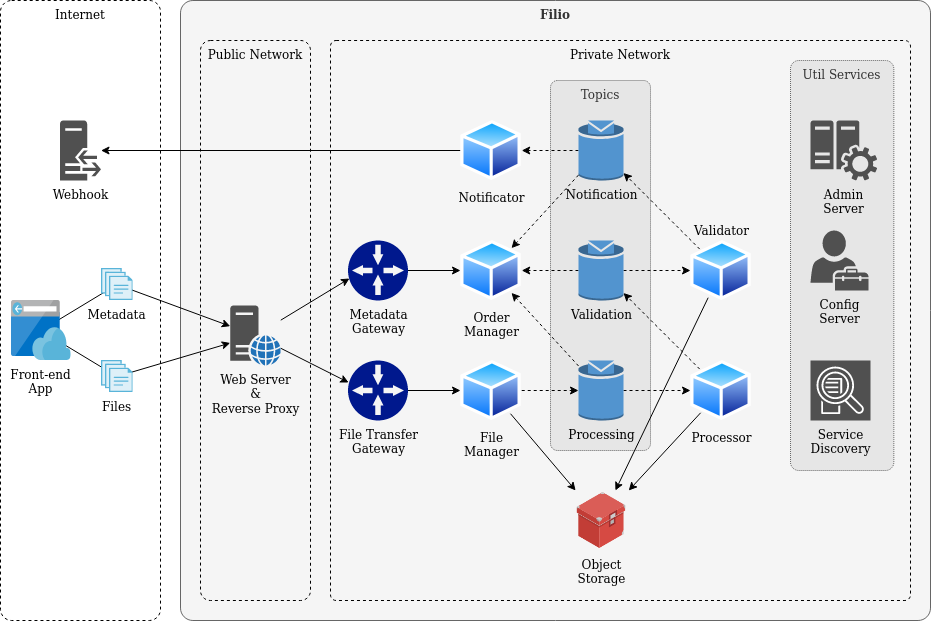
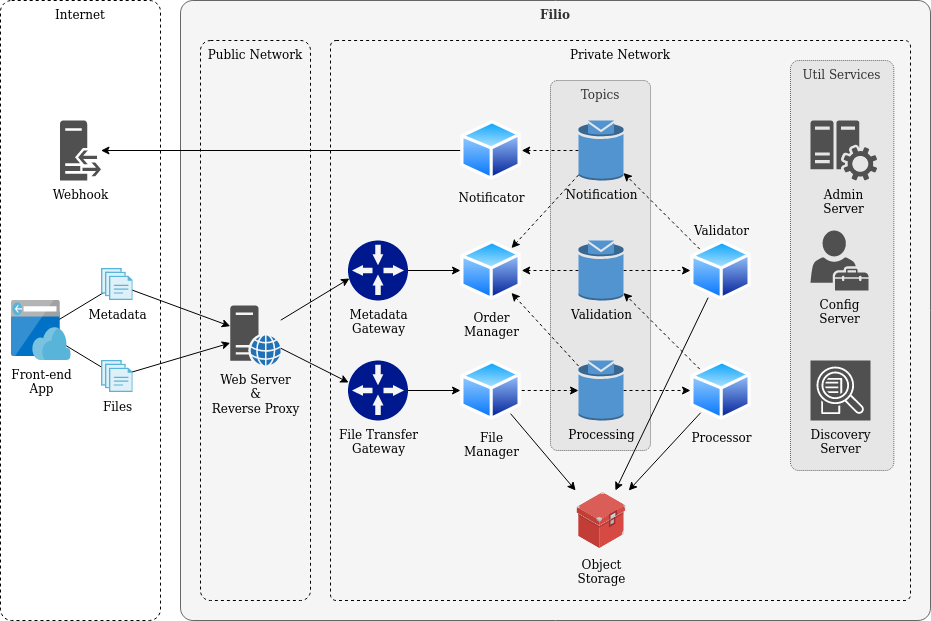
improving documentation

diff --git a/README.md b/README.md
@@ -44,7 +44,7 @@ Components to manage and protect the public API of the backend.
 
 * **Admin Server** is a management service of the all system.
 * **Config Server** is responsible for managing externalized configuration in a distributed system.
-* **Service Discovery**
+* **Discovery Server** is a registration and discovery service of the system microservices.
 
 #### Object Storage
 
